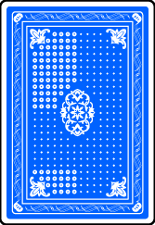
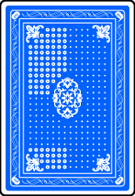
made the cards smaller

diff --git a/BlackJackGui.java b/BlackJackGui.java
@@ -34,7 +34,7 @@ public class BlackJackGui extends JPanel implements ActionListener{
 			rightPlayerCards.add(getRandomCard());
 			leftPlayerCards.add(getRandomCard());
 			dealerCards.add(getRandomCard());
-			cPane.revalidate();
+			cPane.validate();
 			cPane.repaint();
 		}
 		if (e.getSource() == hitButton){
@@ -42,7 +42,7 @@ public class BlackJackGui extends JPanel implements ActionListener{
 			dealerCards.add(getRandomCard());
 			rightPlayerCards.add(getRandomCard());
 			leftPlayerCards.add(getRandomCard());
-			cPane.revalidate();
+			cPane.validate();
 			cPane.repaint();
 		}
 	}
@@ -93,8 +93,6 @@ public class BlackJackGui extends JPanel implements ActionListener{
 		c.gridy = 1;
 		userPanel.add(userCards, c);
 
-
-
         c.anchor = GridBagConstraints.CENTER;
         c.weightx = 1;c.gridwidth = 4;
         c.gridx = 0;c.gridy = 0;
@@ -135,7 +133,7 @@ public class BlackJackGui extends JPanel implements ActionListener{
 			deck = new BufferedImage[4][13];
 			for (int i = 0; i < 4; i++)  {  
 	            for (int j = 0; j < 13; j++)  {  
-	                deck[i][j] = deckSpriteSheet.getSubimage(j * 155, i * 225, 155, 225);  
+	                deck[i][j] = deckSpriteSheet.getSubimage(j * 135, i * 196, 135, 196);  
 	            }  
 	        }  
 	    }
